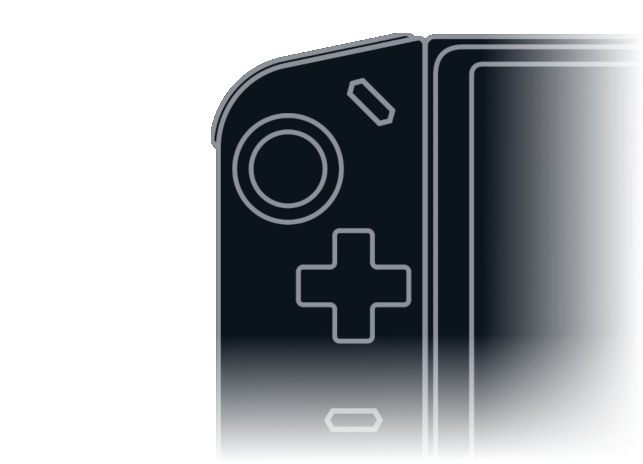
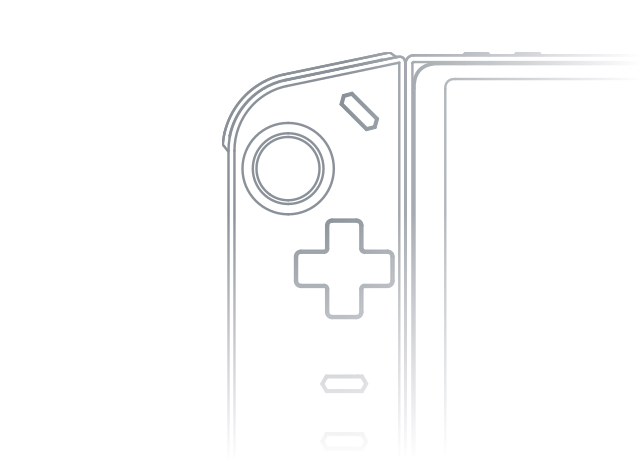
add left and right controllers

diff --git a/themes/msi-claw.css b/themes/msi-claw.css
@@ -68,9 +68,9 @@ img[src="/steaminputglyphs/hp_r4.svg"] {
 }
 
 /* Controller Settings */
-/*img[src="/images/steamdeck_right.png"] {*/
-/*    content: url("/themes_custom/handheld-controller-glyphs/assets/msi-claw/controller-right.png");*/
-/*}*/
-/*img[src="/images/steamdeck_left.png"] {*/
-/*    content: url("/themes_custom/handheld-controller-glyphs/assets/msi-claw/controller-left.png");*/
-/*}*/
+img[src="/images/steamdeck_left.png"] {
+    content: url("/themes_custom/handheld-controller-glyphs/assets/msi-claw/controller-left.png");
+}
+img[src="/images/steamdeck_right.png"] {
+    content: url("/themes_custom/handheld-controller-glyphs/assets/msi-claw/controller-right.png");
+}

diff --git a/themes/onexplayer.css b/themes/onexplayer.css
@@ -66,3 +66,11 @@ img[src="/steaminputglyphs/ps_rb.svg"],
 img[src="/steaminputglyphs/hp_r4.svg"] {
     content: url("/themes_custom/handheld-controller-glyphs/assets/shared/m2.svg");
 }
+
+/* Controller Settings */
+img[src="/images/steamdeck_left.png"] {
+    content: url("/themes_custom/handheld-controller-glyphs/assets/onexplayer/controller-onexplayer2-left.png");
+}
+img[src="/images/steamdeck_right.png"] {
+    content: url("/themes_custom/handheld-controller-glyphs/assets/onexplayer/controller-onexplayer2-right.png");
+}

diff --git a/themes/gpd-win-3.css b/themes/gpd-win-3.css
@@ -67,9 +67,9 @@ img[src="/steaminputglyphs/hp_r4.svg"] {
 }
 
 /* Controller Settings */
-img[src="/images/steamdeck_right.png"] {
-    content: url("/themes_custom/handheld-controller-glyphs/assets/gpd/win-3/controller-right.png");
-}
 img[src="/images/steamdeck_left.png"] {
     content: url("/themes_custom/handheld-controller-glyphs/assets/gpd/win-3/controller-left.png");
+}
+img[src="/images/steamdeck_right.png"] {
+    content: url("/themes_custom/handheld-controller-glyphs/assets/gpd/win-3/controller-right.png");
 }

diff --git a/themes/onexfly.css b/themes/onexfly.css
@@ -66,3 +66,11 @@ img[src="/steaminputglyphs/ps_rb.svg"],
 img[src="/steaminputglyphs/hp_r4.svg"] {
     content: url("/themes_custom/handheld-controller-glyphs/assets/shared/m2.svg");
 }
+
+/* Controller Settings */
+img[src="/images/steamdeck_left.png"] {
+    content: url("/themes_custom/handheld-controller-glyphs/assets/onexplayer/controller-onexfly-left.png");
+}
+img[src="/images/steamdeck_right.png"] {
+    content: url("/themes_custom/handheld-controller-glyphs/assets/onexplayer/controller-onexfly-right.png");
+}

diff --git a/themes/gpd-win-mini.css b/themes/gpd-win-mini.css
@@ -64,3 +64,11 @@ img[src="/steaminputglyphs/ps_rb.svg"],
 img[src="/steaminputglyphs/hp_r4.svg"] {
     content: url("/themes_custom/handheld-controller-glyphs/assets/gpd/win-mini/r4.svg");
 }
+
+/* Controller Settings */
+img[src="/images/steamdeck_left.png"] {
+    content: url("/themes_custom/handheld-controller-glyphs/assets/gpd/win-mini/controller-left.png");
+}
+img[src="/images/steamdeck_right.png"] {
+    content: url("/themes_custom/handheld-controller-glyphs/assets/gpd/win-mini/controller-right.png");
+}

diff --git a/themes/gpd-win-4.css b/themes/gpd-win-4.css
@@ -64,3 +64,11 @@ img[src="/steaminputglyphs/ps_rb.svg"],
 img[src="/steaminputglyphs/hp_r4.svg"] {
     content: url("/themes_custom/handheld-controller-glyphs/assets/gpd/win-4/r4.svg");
 }
+
+/* Controller Settings */
+img[src="/images/steamdeck_left.png"] {
+    content: url("/themes_custom/handheld-controller-glyphs/assets/gpd/win-4/controller-left.png");
+}
+img[src="/images/steamdeck_right.png"] {
+    content: url("/themes_custom/handheld-controller-glyphs/assets/gpd/win-4/controller-right.png");
+}

diff --git a/themes/ayaneo.css b/themes/ayaneo.css
@@ -60,3 +60,11 @@ img[src="/steaminputglyphs/ps_rb.svg"],
 img[src="/steaminputglyphs/hp_r4.svg"] {
     content: url("/themes_custom/handheld-controller-glyphs/assets/ayaneo/rc.svg");
 }
+
+/* Controller Settings */
+img[src="/images/steamdeck_left.png"] {
+    content: url("/themes_custom/handheld-controller-glyphs/assets/ayaneo/controller-air-left.png");
+}
+img[src="/images/steamdeck_right.png"] {
+    content: url("/themes_custom/handheld-controller-glyphs/assets/ayaneo/controller-air-right.png");
+}
